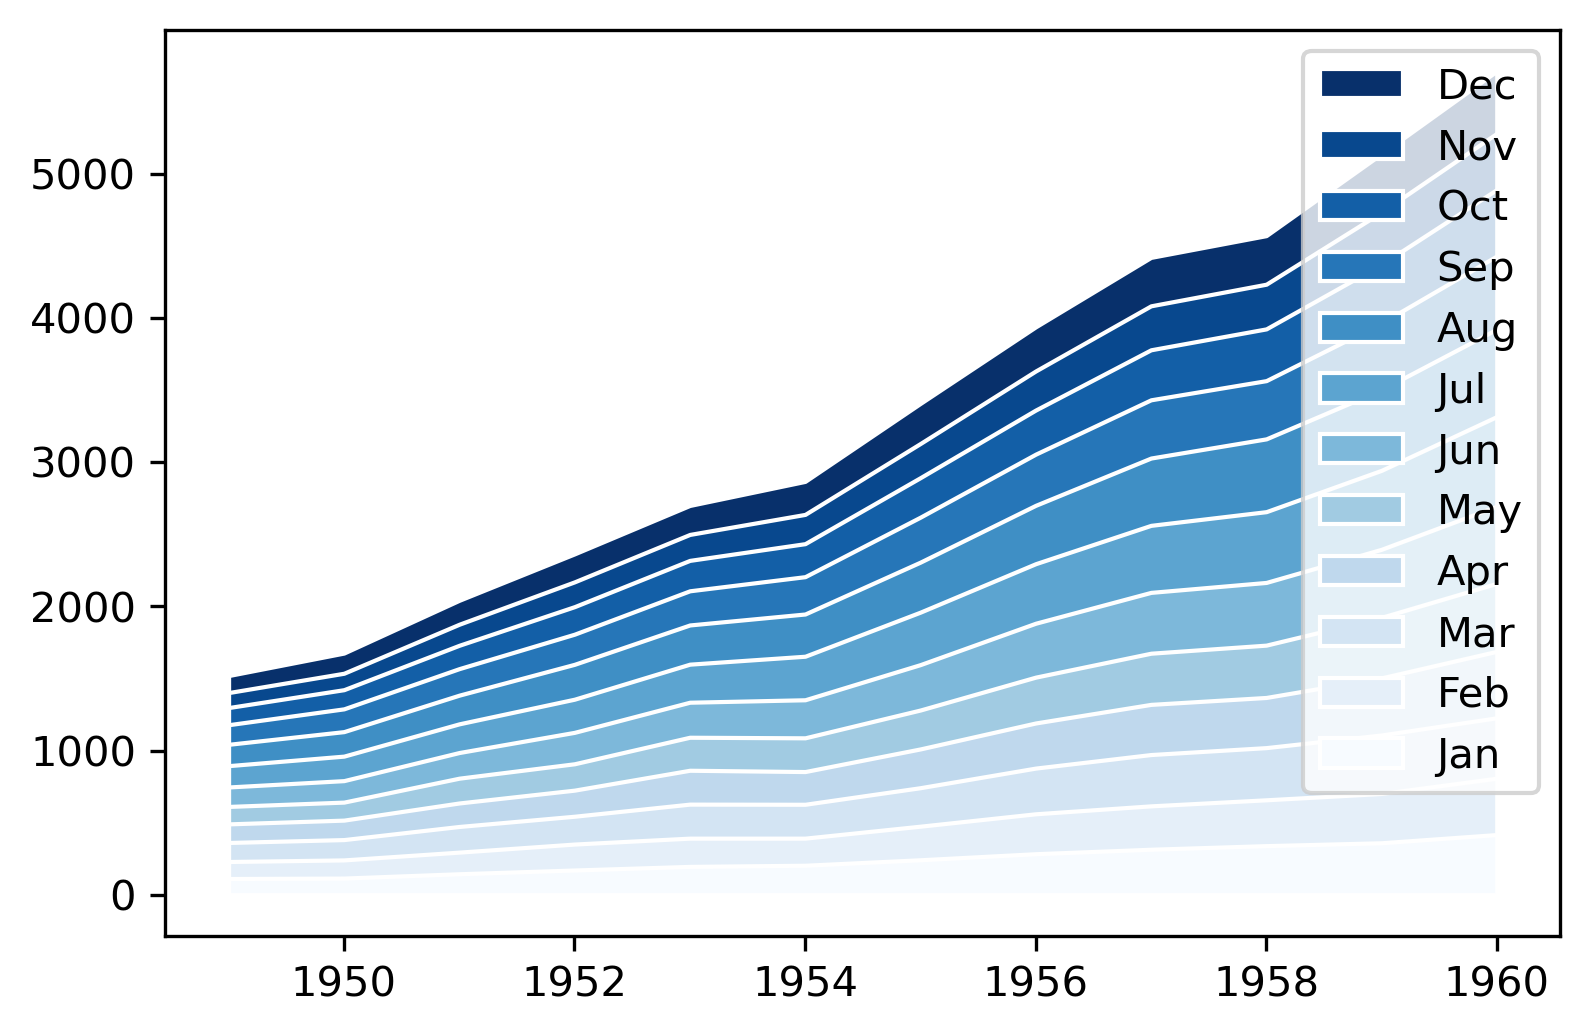
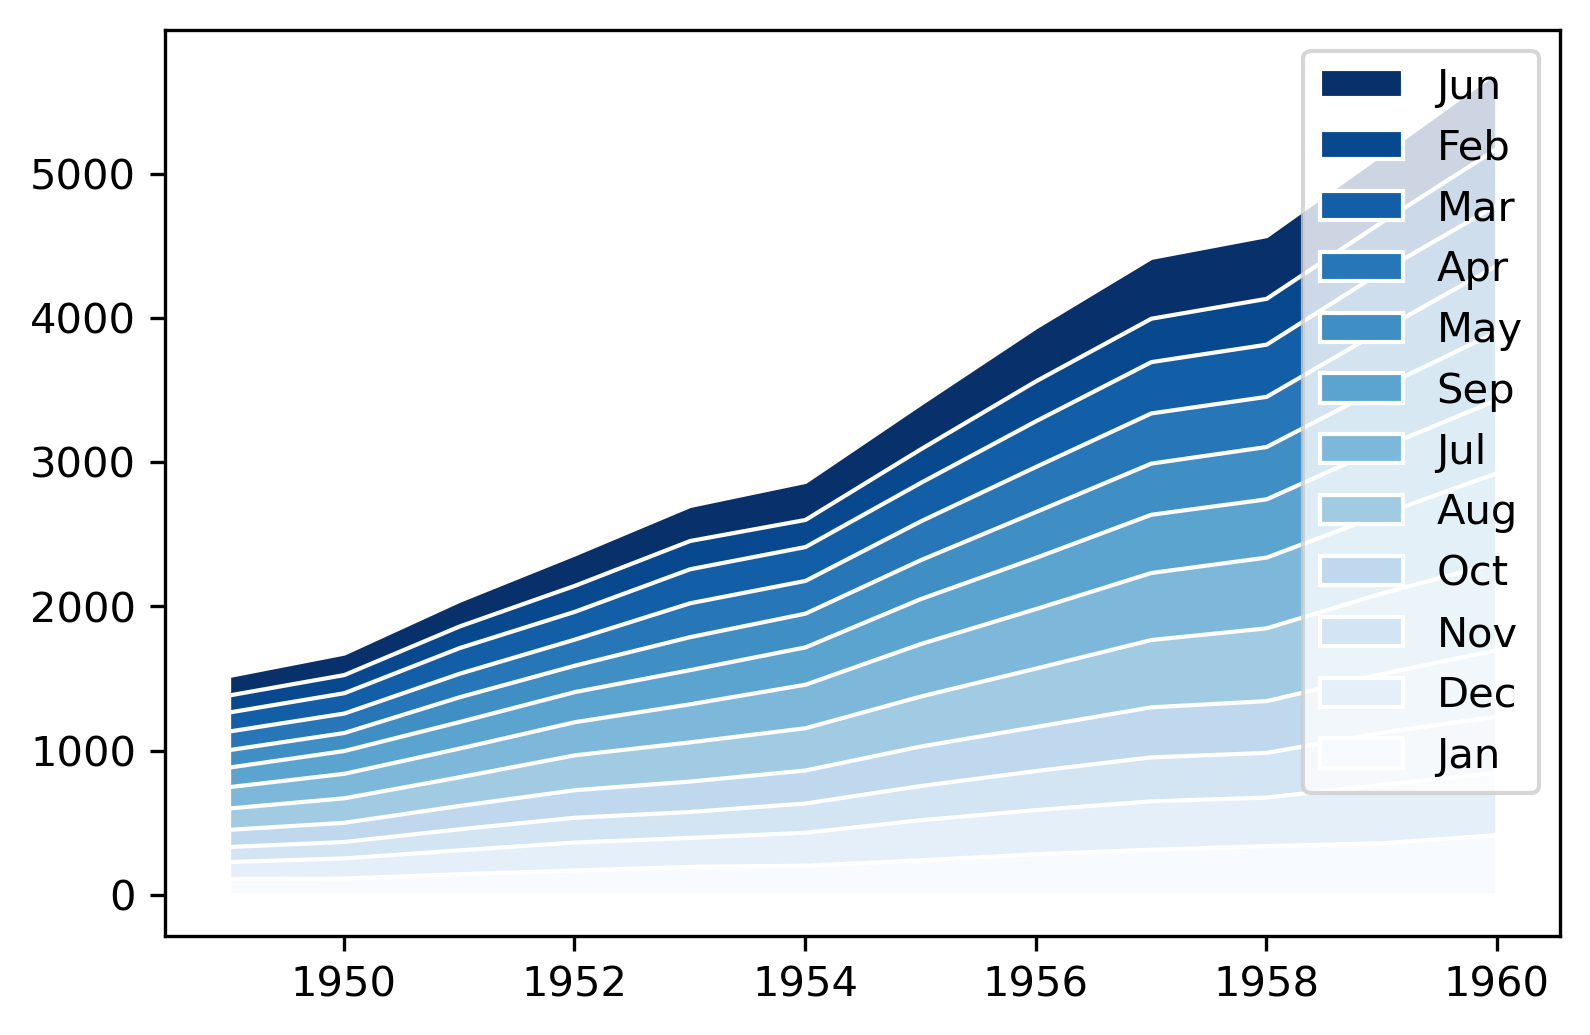
Making Stackplot Interpolate

Changed region(s): [[0.1233, 0.1237, 0.9553, 0.8348], [0.8629, 0.371, 0.9553, 0.6802], [0.8937, 0.0618, 0.9553, 0.0928]]

diff --git a/avt/_lineplot.py b/avt/_lineplot.py
@@ -5,13 +5,13 @@ Examples can be found here:
 https://github.com/alexcapstick/alexs-visualisation-tools/blob/main/examples/lineplot.ipynb
 
 '''
-
 import numpy as np
 import pandas as pd
 import typing
-
 import matplotlib.colors as mcs
 import matplotlib.pyplot as plt
+from ._utils import interpolate_nans
+
 
 def stackplot(
     data:pd.DataFrame, 
@@ -22,10 +22,12 @@ def stackplot(
     hue_order:typing.Union[typing.List[str], None]=None, 
     cmap:typing.Union[mcs.Colormap, str, None]=None,
     legend:bool=True,
+    cumulative:bool=False,
     **kwargs,
     ):
     '''
-    This function plots a stacked continuous graph.
+    This function plots a stacked continuous graph. The 
+    missing values are interpolated for all x values.
     
     
     
@@ -35,7 +37,6 @@ def stackplot(
     .. code-block:: 
 
         >>> import avt
-
         >>> import seaborn as sns
         >>> import pandas as pd
         >>> flights = sns.load_dataset('flights')
@@ -47,8 +48,6 @@ def stackplot(
         :width: 600
         :align: center
         :alt: Alternative text
-
-
 
     
     Arguments
@@ -91,6 +90,12 @@ def stackplot(
         Whether to plot a legend. 
         Defaults to :code:`True`.
     
+    - cumulative: bool, optional:
+        If :code:`True`, then the cumulative
+        values will be plotted, rather than 
+        the raw values.
+        Defaults to :code:`False`.
+
     - kwargs:
         Any other keyword arguments are
         passed to :code:`plt.fill_between`. From here,
@@ -107,6 +112,8 @@ def stackplot(
     
     '''
 
+    data = data.sort_values(x)
+
     if not hue is None:
         if hue_order is None:
             hue_order = data[hue].unique()
@@ -116,6 +123,24 @@ def stackplot(
             cmap = [cmap(i) for i in np.linspace(0,1,len(hue_order))]
         elif isinstance(cmap, mcs.Colormap):
             cmap = [cmap(i) for i in np.linspace(0,1,len(hue_order))]
+
+        data = (data
+            [[x, y, hue]]
+            .pivot_table(index=x, columns=hue, values=y)
+            .apply(interpolate_nans, axis=0)
+            .reset_index()
+            .melt(id_vars=x, var_name=hue, value_name=y)
+            .reset_index()
+            )
+
+        if cumulative:
+            data = (data
+                .groupby(by=[hue, x])
+                .sum()
+                .groupby(level=0)
+                .cumsum()
+                .reset_index()
+                )
 
         y_plot = np.vstack(
             [
@@ -139,6 +164,8 @@ def stackplot(
         hue_order = [x]
         y_plot = data[y].values.reshape(1,-1)
         x_plot = data[x].values.reshape(1,-1)
+        if cumulative:
+            y_plot = np.cumsum(y_plot, axis=1)
 
 
     if ax is None:

diff --git a/avt/_utils.py b/avt/_utils.py
@@ -1,0 +1,35 @@
+import pandas as pd
+import numpy as np
+
+def interpolate_nans(x:pd.Series):
+    '''
+    Interpolate a pandas series.
+
+
+    Arguments
+    ---------
+
+    - x: pd.Series:
+        The series to interpolate. The index
+        will be taken as the x values and the
+        values will be taken as the y values.
+
+
+    Returns
+    ---------
+
+    - res: pd.Series:
+        The interpolated pandas data series.
+
+    '''
+    index = x.index
+    is_nan = pd.isna(x.values)
+    res = x.values * 1.0
+    res[is_nan] = np.interp(
+        x.index[is_nan], 
+        x.index[~is_nan], 
+        x.values[~is_nan], 
+        left=0,
+        )
+    res = pd.Series(data=res, index=index)
+    return res
